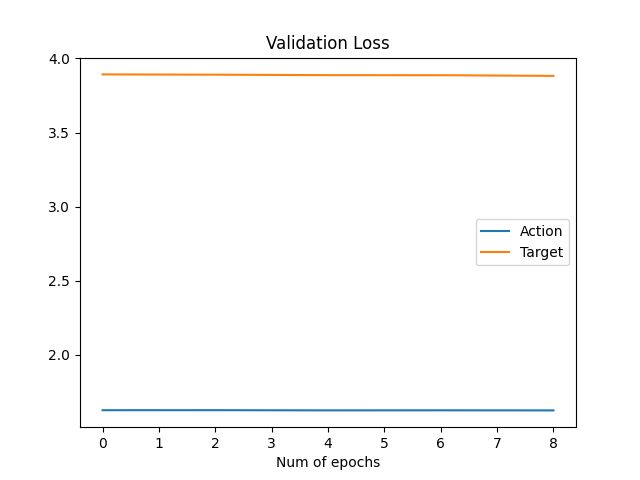
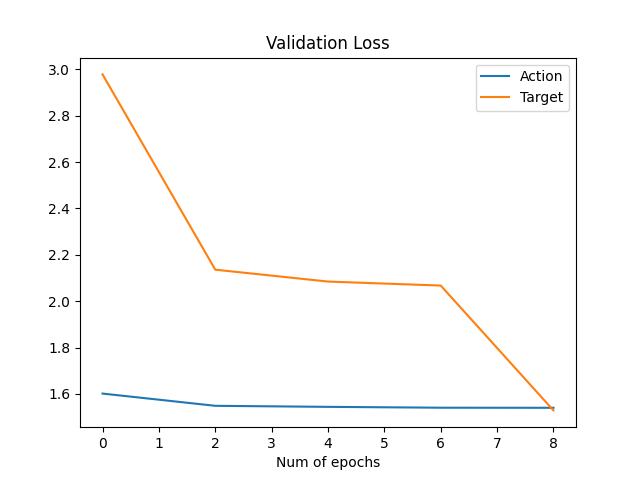
update report

diff --git a/hw3/README.md b/hw3/README.md
@@ -45,113 +45,23 @@ Please just add --eval to the scripts and run thanks!!!! :)
 Following are the instructions for hw3:
 
 # Coding Assignment #3
-
-In this assignment, you will implement an Encoder-Decoder model that takes in [ALFRED](https://askforalfred.com/) instructions for an entire episode and predicts the sequence of corresponding, high-level actions and target objects. The problem is the same as in Homework #1 except you will model this as a sequence prediction problem instead of multiclass classification. You will implement a sequence-to-sequence (seq2seq) model. 
-
+In this assignment, you will implement an Encoder-Decoder model that takes in [ALFRED](https://askforalfred.com/) instructions for an entire episode and predicts the sequence of corresponding, high-level actions and target objects. The problem is the same as in Homework #1 except you will model this as a sequence prediction problem instead of multiclass classification. You will implement a sequence-to-sequence (seq2seq) model.
 ALFRED instructions were written by Mechanical Turk workers who aligned them to a virtual agent's behavior in a recorded simulation-based video of the agent doing a task in a room.
-
 For example, the instructions for [an example task](https://askforalfred.com/?vid=8781) and their associated high-level action and object targets are:
 
+
 | Instruction                                                                                                                          | Action       | Target     |
-
 | :----------------------------------------------------------------------------------------------------------------------------------- | ------------:| ----------:|
-
 | Go straight and to the left to the kitchen island.                                                                                   | GotoLocation | countertop |
-
 | Take the mug from the kitchen island.                                                                                                | PickupObject | mug        |
-
 | Turn right, go forward a little, turn right to face the fridge.                                                                      | GotoLocation | fridge     |
-
 | Put the mug on the lowest level of the top compartment of the fridge. Close then open the fridge door. Take the mug from the fridge. | CoolObject   | mug        |
-
 | Turn around, go straight all the way to the counter to the left of the sink, turn right to face the sink.                            | GotoLocation | sinkbasin  |
-
 | Put the mug in the sink.                                                                                                             | PutObject    | sinkbasin  |
 
 Initially, you should implement an encoder-decoder seq2seq model that encodes the low-level instructions into a context vector which is decoded autoregressively into the high-level instruction. Then you will implement an attention mechanism that allows the decoder to attend to each hidden state of the encoder model when making predictions. Finally, you will compare this against a Transformer-based model. You may use any functionality in the HuggingFace library for these implementations. (That is, we do not expect you to implement RNNs, LSTMs, Attention layers, Tranformers, or any other architectural component from scratch.)
-
-We provide starter code that tokenizes the instructions and provides dictionaries mapping instruction tokens to their numerical indexes. It's up to you to write methods that convert the inputs and outputs to tensors, an encoder-decoder attention model that processes input tensors to produce predictions, and the training loop to adjust the parameters of the model based on its predictions versus the ground truth, target outputs. Note, you will need to implement some function for decoding the target text given the context vector. For this decoding to work, you will need to append special tokens to the input to mark the beginning of sentence (\<BOS\>) and end of sentence (\<EOS\>). This is a standard practice for decoder models. 
-
-You will evaluate your model as it trains against both the training data that it is seeing and validation data that is "held out" of the training loop. 
-
-## Clone this repo
-
-```
-
-git clone https://github.com/GLAMOR-USC/CSCI499_NaturalLanguageforInteractiveAI.git
-
-cd CSCI499_NaturalLanguageforInteractiveAI/hw3
-
-export PYTHONPATH=$PWD:$PYTHONPATH
-
-```
-
-## Install some packages
-
-```
-
-# first create a virtualenv 
-
-virtualenv -p $(which python3) ./hw3
-
-# activate virtualenv
-
-source ./hw3/bin/activate
-
-# install packages
-
-pip3 install -r requirements.txt
-
-```
-
-## Train model
-
-The training file will throw some errors out of the box. You will need to fill in the TODOs before anything starts to train.
-
-While debugging, consider taking a small subset of the data and inserting break statements in the code and print the values of your variables.
-
-```
-
-Train:
-
-python train.py \
-
-    --in_data_fn=lang_to_sem_data.json \
-
-    --model_output_dir=experiments/s2s \
-
-    --batch_size=1000 \
-
-    --num_epochs=100 \
-
-    --val_every=5 \
-
-    --force_cpu 
-
-Evaluation:
-
-python train.py \
-
-    --in_data_fn=lang_to_sem_data.json \
-
-    --model_output_dir=experiments/s2s \
-
-    --batch_size=1000 \
-
-    --num_epochs=100 \
-
-    --val_every=5 \
-
-    --force_cpu \
-
-    --eval
-
-
-# add any additional argments you may need
-
-# remove force_cpu if you want to run on gpu
-
-```
+We provide starter code that tokenizes the instructions and provides dictionaries mapping instruction tokens to their numerical indexes. It's up to you to write methods that convert the inputs and outputs to tensors, an encoder-decoder attention model that processes input tensors to produce predictions, and the training loop to adjust the parameters of the model based on its predictions versus the ground truth, target outputs. Note, you will need to implement some function for decoding the target text given the context vector. For this decoding to work, you will need to append special tokens to the input to mark the beginning of sentence (\<BOS\>) and end of sentence (\<EOS\>). This is a standard practice for decoder models.
+You will evaluate your model as it trains against both the training data that it is seeing and validation data that is "held out" of the training loop.
 
 
 ## Grading
@@ -159,31 +69,19 @@ python train.py \
 This assignment will be scored out of 40 points on the *correctness* and *documentation detail and accuracy* of the following aspects of your code:
 
 - [ ] (5pt) Encoding the input and output data into tensors. Adding special tokens to denote the start and end of decoding.
-
 - [ ] (10pt) Implementation of the base encoder-decoder model without attention (you may use RNN, LSTM, or any other recurrent neural net cell for this step) that takes in a sequence of language instructions for an episode and predicts a sequence of (action, target) high-level goal outputs.
-
 - [ ] (5pt) Implementation and of an attention model over the input hidden states of the previous model; note that this attention could be over word-level states if your encoder treats all instructions as a single sequence, or over the instruction-level states if your encoder is hierarchical and consumes instructions first, then sequences of instruction hidden states second.
-
 - [ ] (5pt) Implement a Transformer-based encoder-decoder and compare performance against encoder-decoder model with attention.
-
 - [ ] (5pt) Implementation of the training and evaluation loops
-
 - [ ] (10pt) *Report* your results through an .md file in your submission; discuss your implementation choices and document the performance of your models (both training and validation performance) under the conditions you settled on. Compare the base encoder-decoder, encoder-decoder with attention, and transformer-based model performance. Discuss your encoder-decoder attention choices (e.g., flat or hierarchical, recurrent cell used, etc.). Discuss the attention mechanism you implemented for the encoder-decoder model using the taxonomy we discussed in class. 
 
 Remember that coding assignments 1 and 2 were worth 30 points, bringing the total to 100 points after adding these 40, which all told account for 25% of your course grade.
 
 ## Available Bonus Points
-
 You may earn up to 10pt of *bonus points* by implementing the following bells and whistles that explore further directions. For these, you will need to compare the performance of the base model against whatever addition you try. Add those details to your report. If you implement bonus items, your base code implementing the main assignment must remain intact and be runnable still.
-
 - [ ] (*10pt*) In addition to language instructions, the ALFRED dataset also provides visual features corresponding to the agent's egocentric observations encoded using a pretrained ResNet model. Download the ResNet features and modify your model (either encoder-decoder or Transformer) to use the ResNet features (e.g., you could create a single visual observation alongside the lang one by argmaxing the ResNet features thru time and concatenating them to the final encoder hidden state) and test whether this improves the prediction performance. Discuss your implementation, the performance differences, and whether this information is "fair".
-
 - [ ] (*10pt*) We discussed global vs local and soft vs. hard attention in class. Implement the other of one of these and compare to your base implementation. Up to 5pt for comparing global versus local attention. Up to 5pt for comparing soft versus hard attention. For the latter, note that some tricks are needed to preserve gradients (see slides for paper link).
-
 - [ ] (*5pt*) The most straightforward encoder-decoder implementation will treat words in the instructions as one long sequence. Instead, try encoding each instruction with one RNN, then encoding each of the final latent states of that "low-level" RNN using a "high-level" RNN whose inputs are those final hidden states. How does the performance compare?
-
 - [ ] (*5pt*) The low-level versus high-level encoding can also be tried using the Transformer-based model, where the final representation for each low-level instruction is the CLS token representation output of the low-level Transformer. The high-level Transformer will consume an output CLS representation from each instruction to produce the final input to the decoder.
-
 - [ ] (*5pt*) Instead of learning word embeddings from scratch, initialize your embeddings with pretrained vectors like Word2Vec, GLoVe, or Fasttext.
-
 - [ ] (*10pt*) Using your code from HW2, try learning initial word embeddings via the language modeling objectives of your own SkipGram / CBOW model on the ALFRED instruction data as a pretraining step. How does pretraining on in-domain ALFRED instruction data affect downstream performance?

diff --git a/hw3/REPORT.md b/hw3/REPORT.md
@@ -126,7 +126,7 @@ Loss and accuracy of action and target predictions are calculated separately. 3 
 - Also, the exact match accuracy is very low, so maybe trying to produce instruction-level instead of word-level hidden states, so that the lstm can learn a better hidden representations for producing instruction pairs for specific positions corresponding to each sub-instruction.
 
 ### LSTM Encoder-Decoder with Attention
-TODO
+
 ![](outputs/experiments/s2s_with_attention/training_loss.png)
 ![](outputs/experiments/s2s_with_attention/training_action_accuracy.png)
 ![](outputs/experiments/s2s_with_attention/training_target_accuracy.png)
@@ -136,16 +136,17 @@ TODO
 
 |                   |   Loss   | Exact Match Acc | Prefix Match Acc | Percentage Match |
 |:-----------------:|:--------:|:---------------:|:----------------:|:----------------:|
-|  Training Action  |    |              |            |            |
-|  Training Target  |    |              |            |            |
-| Validation Action |    |              |            |            |
-| Validation Target |    |              |            |            |
+|  Training Action  |  1.5224  |       0.0       |      0.2135      |      0.4341      |
+|  Training Target  |  1.8435  |       0.0       |      0.1320      |      0.3920      |
+| Validation Action |  1.5402  |       0.0       |      0.2133      |      0.4452      |
+| Validation Target |  1.5290  |       0.0       |      0.1284      |      0.3678      |
 
-- When I was implementing the encoder-decoder attention, I only takes the hidden representations of the last LSTM layer into account while I have 2 LSTM layers stacked together. Maybe attending representations of both layers can be helpful.
-- Also, the attention currently attends to word-level state. Attending to instruction-level states may make more sense because pairs of target and action come with the corresponding instructions. 
+- As can be seen from above, including the attention cause the model performs worse. I think one possible reason is that given the hidden dimension of LSTM layer is 256, the linear layer in Attention has in_feature=512 and out_feature=1, meaning that it can be very difficult for the Attention to actually learn how the output of each time step is related with each encoder hidden state. The model, especially the Attention part, may not be complex enough for the decoder to attend to the encoder and thus may almost always produce the sane attention vector at the end. When I was logging out the predictions and the loss, the loss was decreasing, but the attention weights were changing by a very small rate, meaning the Attention was not learning effectively. 
+- Also, When I was implementing the encoder-decoder attention, I only takes the hidden representations of the last LSTM layer into account while I have 2 LSTM layers stacked together. Maybe attending representations of both layers can be helpful.
+- The attention currently attends to word-level state. Attending to instruction-level states may make more sense because pairs of target and action come with the corresponding instructions. 
 
 ### Transformer Based Encoder-Decoder Model
-- Due to limited memory on my rented GPU, batch size is reduced from 256 to 128 (and due to time limitation only 5 epochs were run. Need money for better GPU lol)
+Due to limited memory on my rented GPU, the batch size is reduced from 256 to 128 (and due to time limitation only 5 epochs were run. Need money for better GPU lol)
 
 ![](outputs/experiments/s2s_bert/training_loss.png)
 ![](outputs/experiments/s2s_bert/training_action_accuracy.png)
